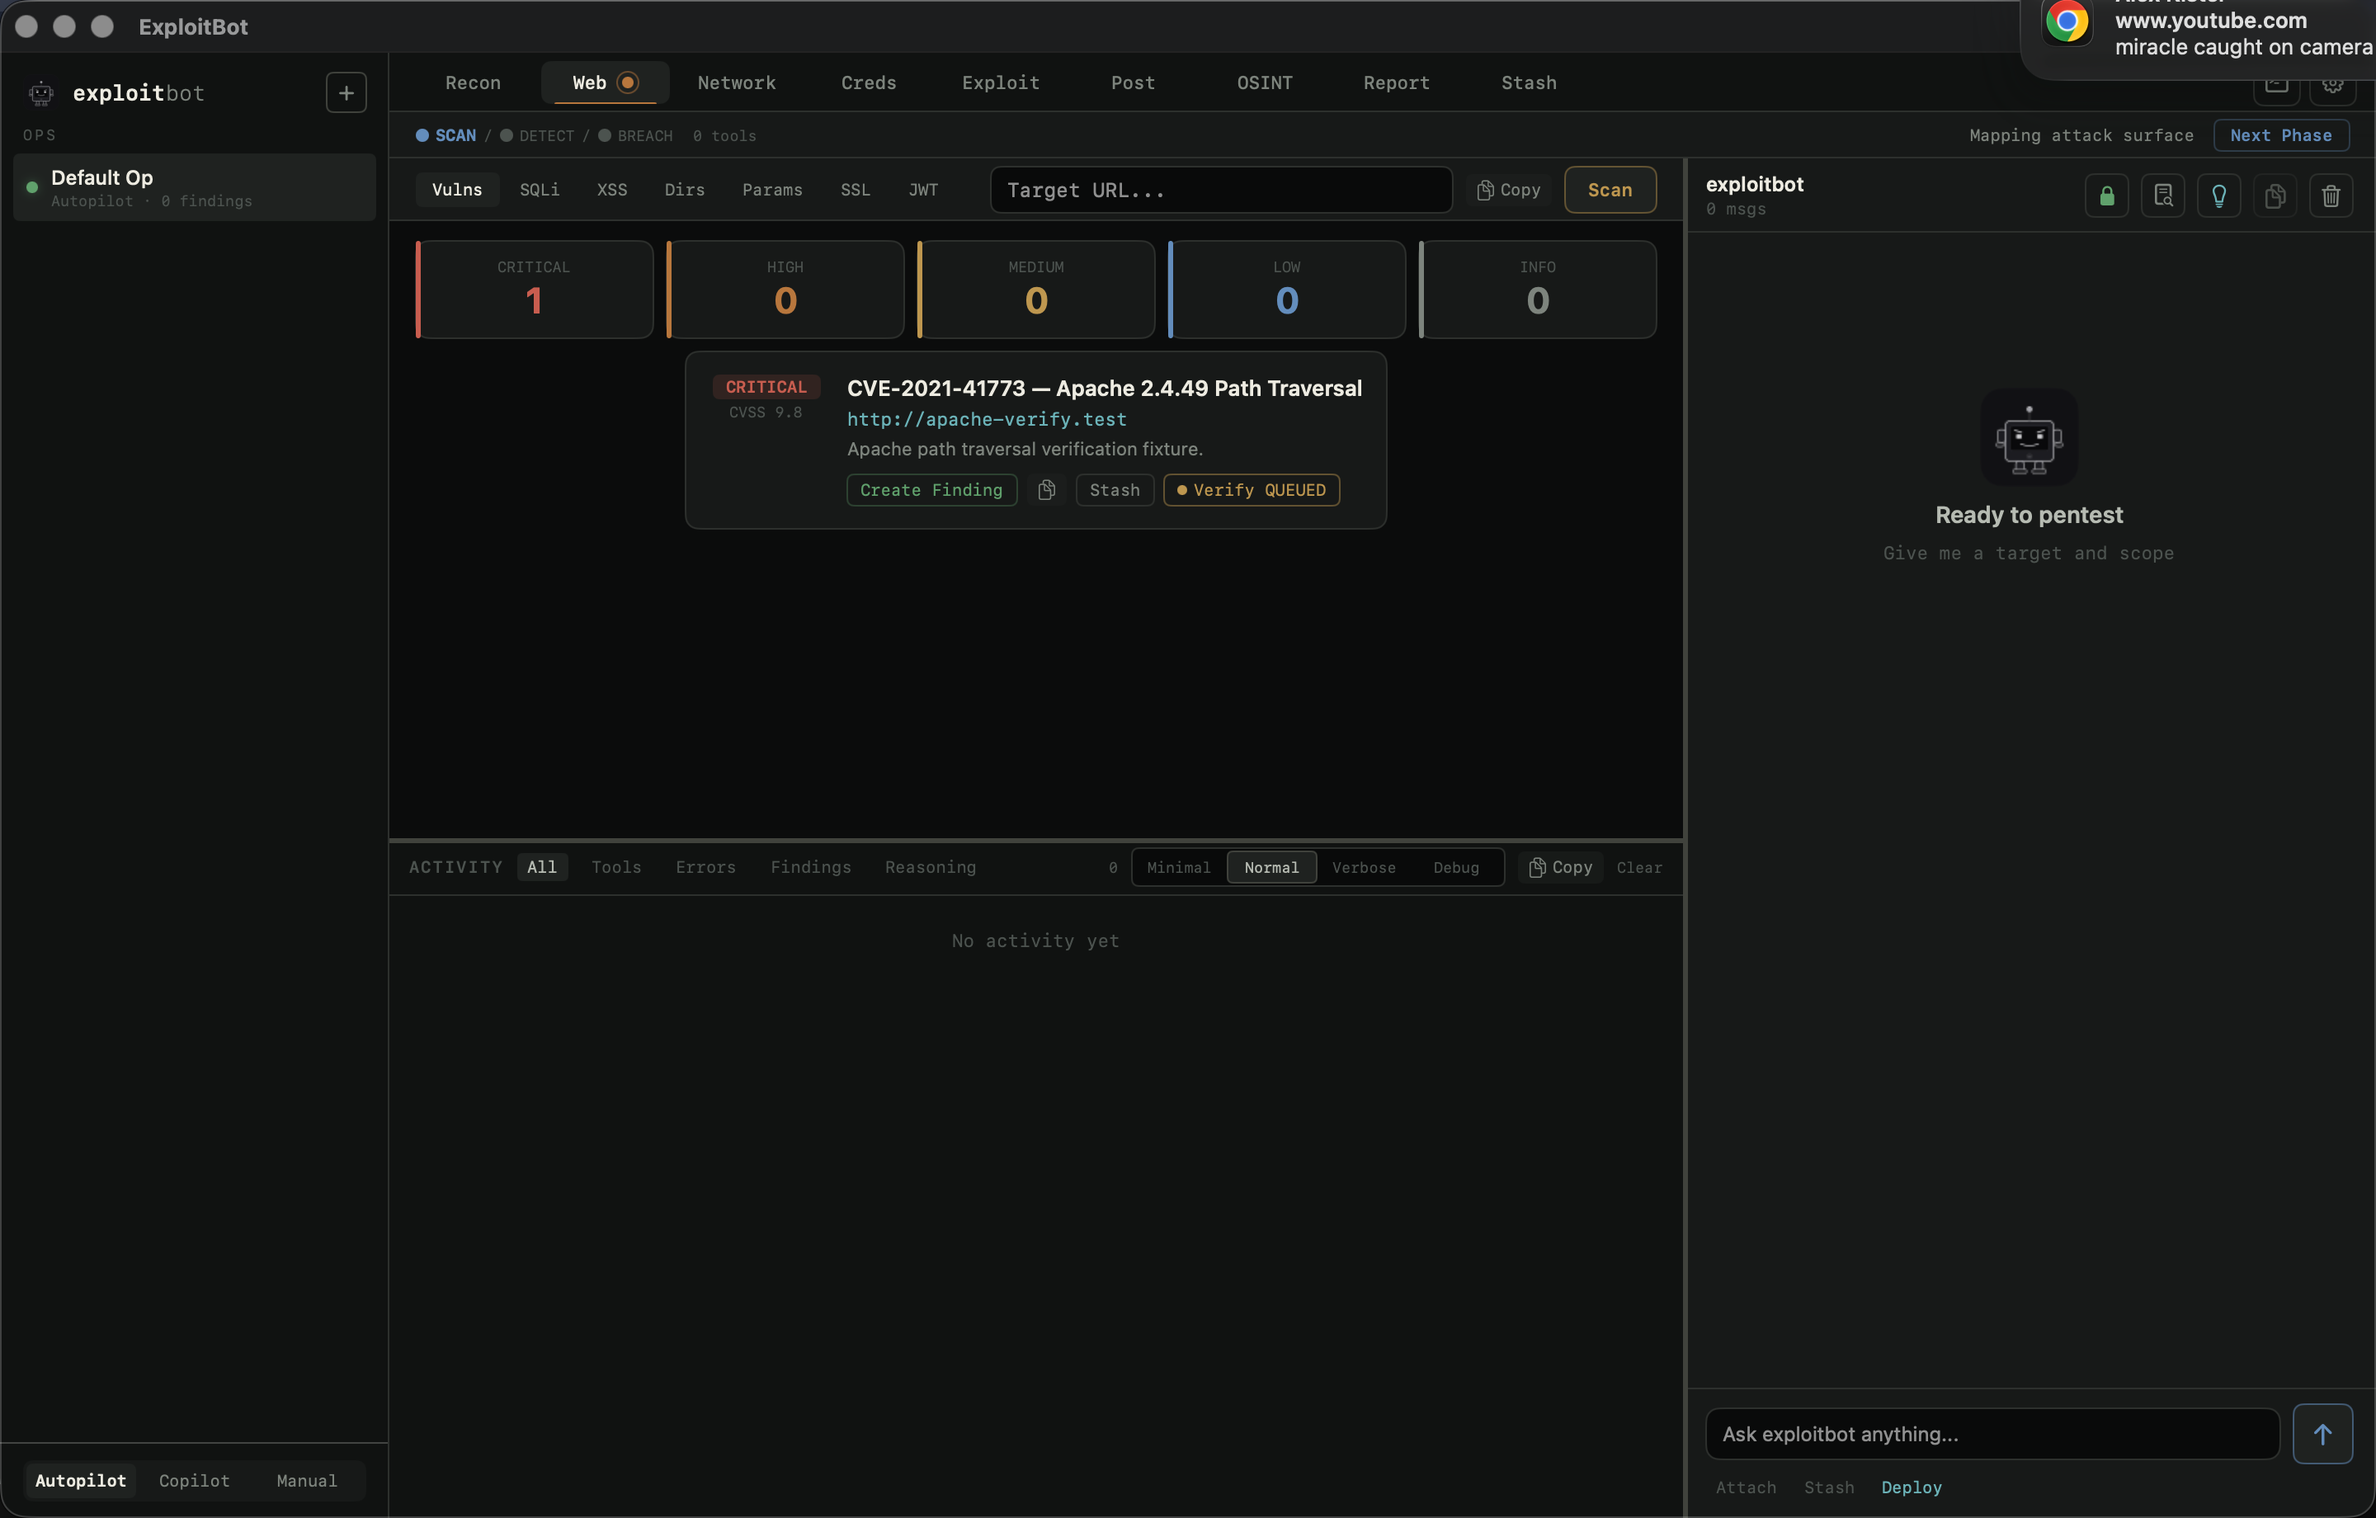
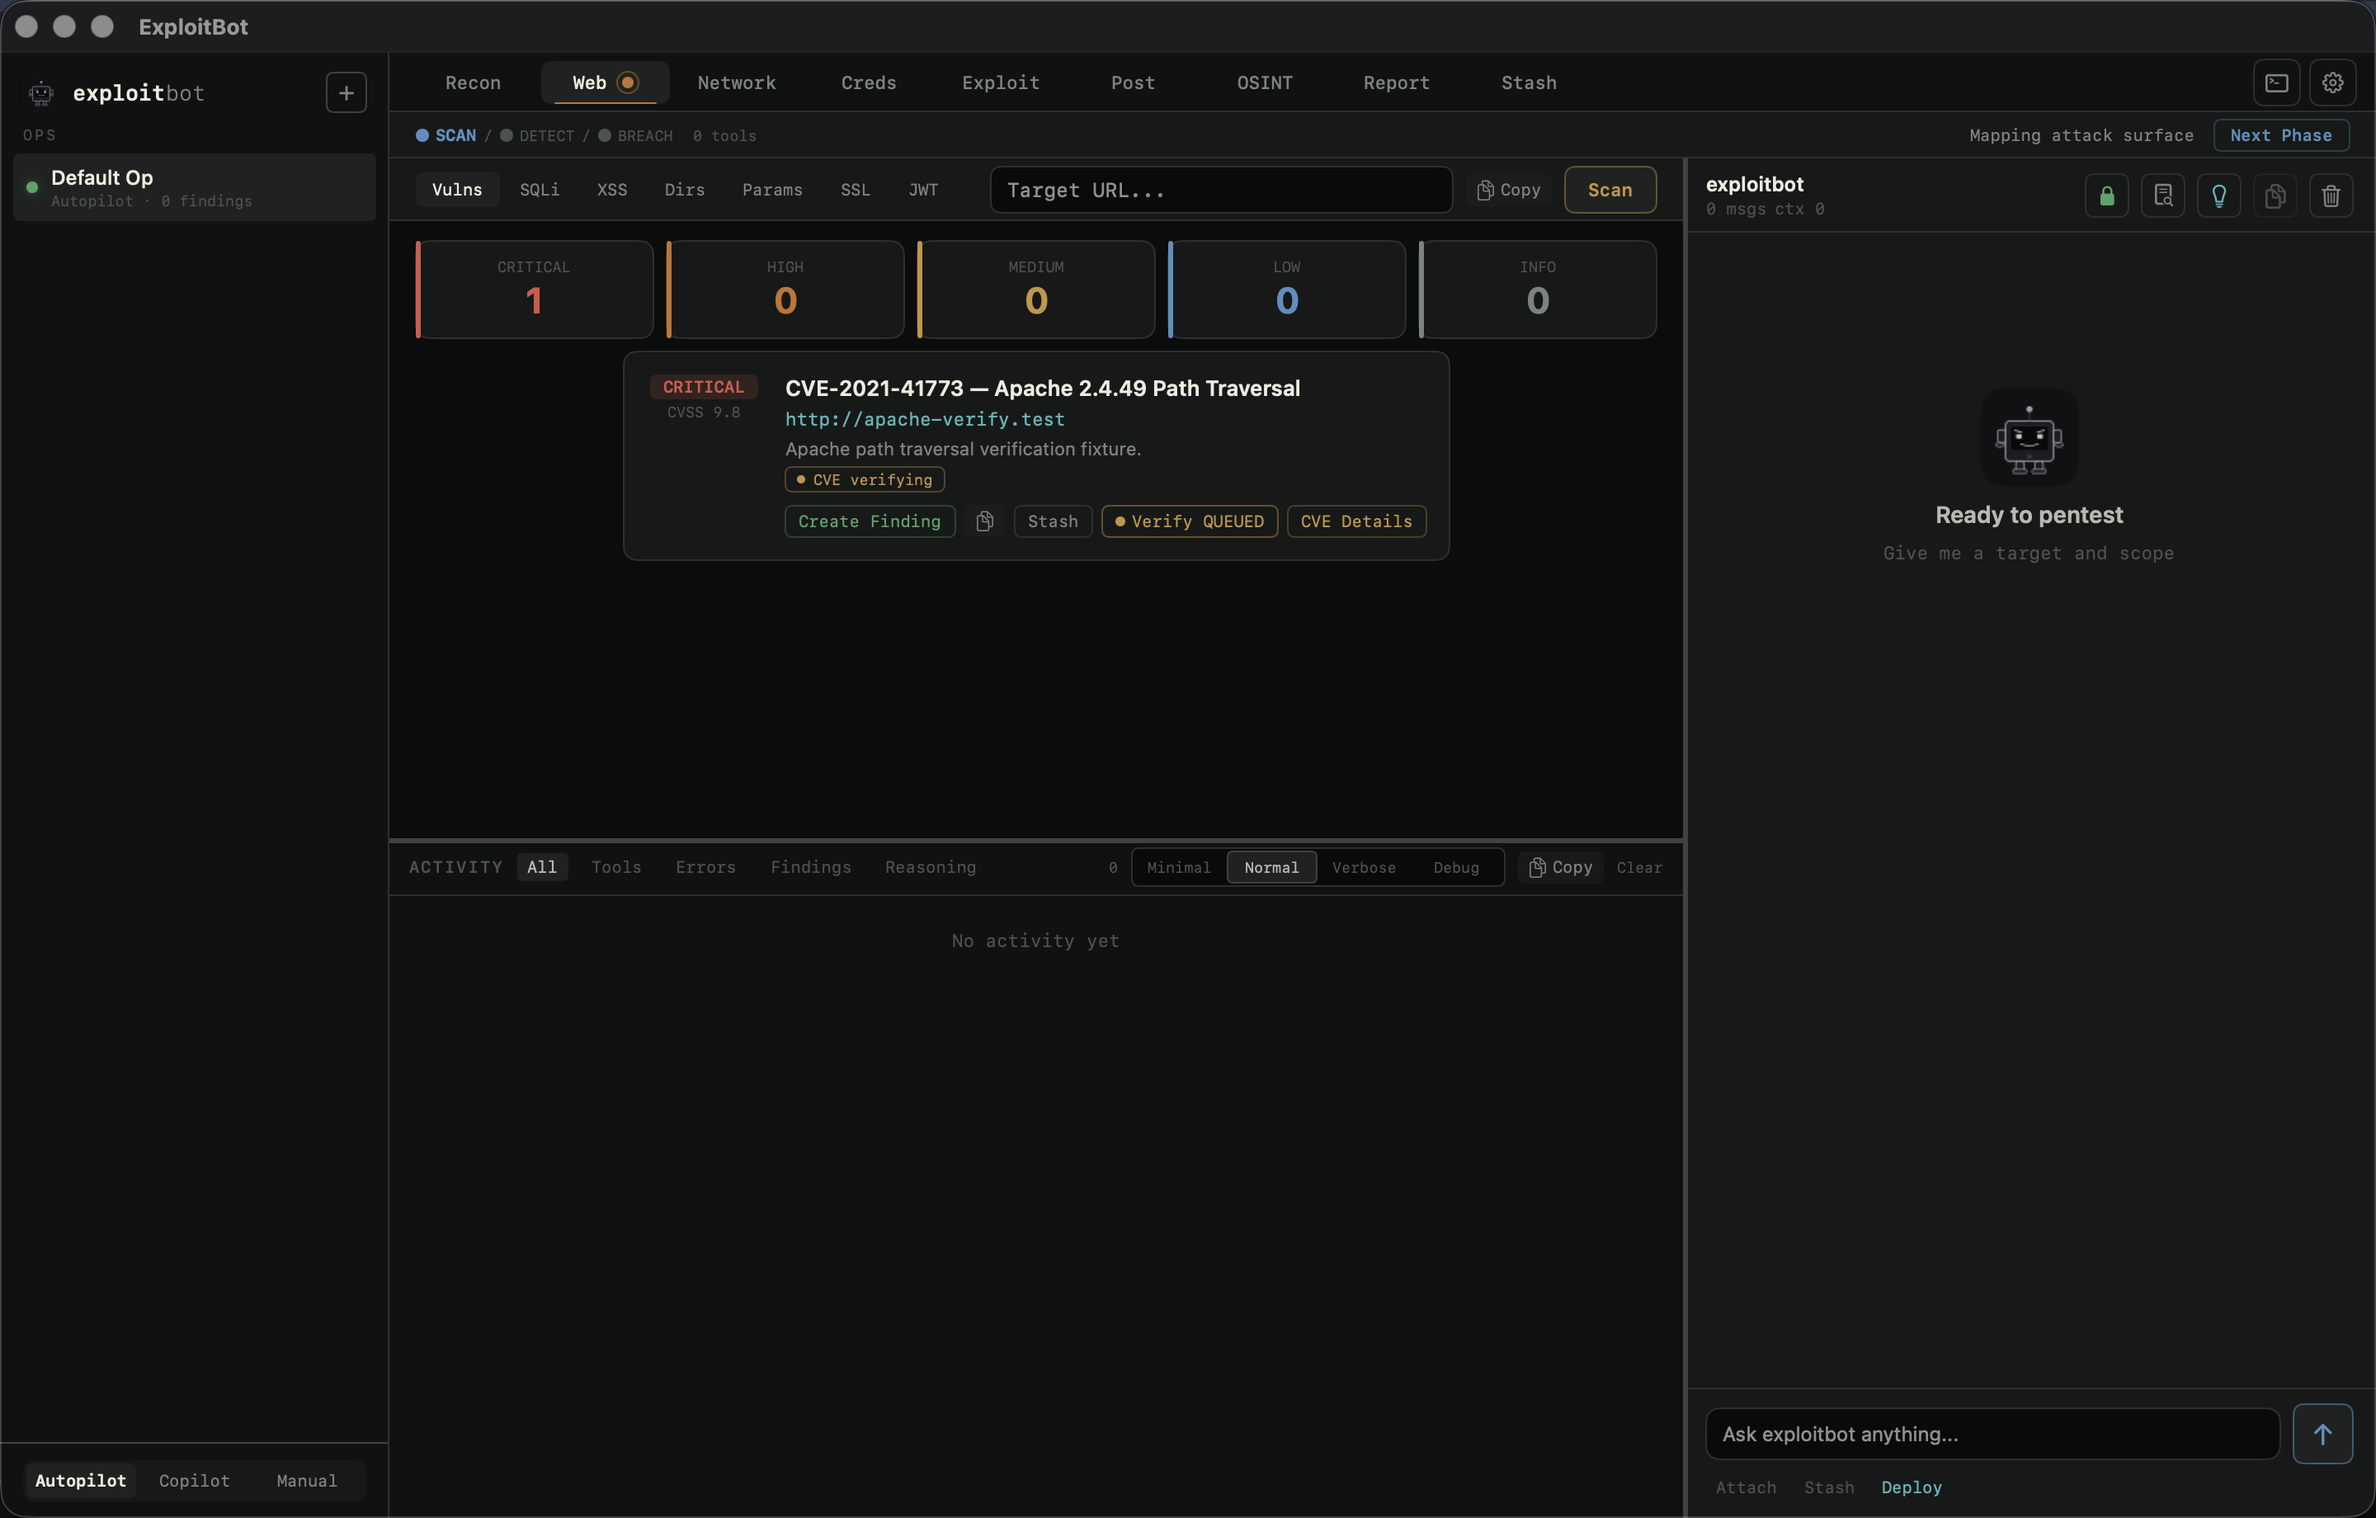
app: expose web cve row progress

Changed region(s): [[0.25, 0.2478, 0.5938, 0.3717], [0.8438, 0.0, 1.0, 0.062]]

diff --git a/ExploitBot/Sources/ExploitBot/Models/AppState.swift b/ExploitBot/Sources/ExploitBot/Models/AppState.swift
@@ -277,6 +277,24 @@ class TestServer {
                 tags: ["apache", "path-traversal"]
             )
             state.resultsStore.vulns = [vuln]
+            state.cveService.searchResults = [
+                CVE(
+                    id: "CVE-2021-41773",
+                    description: "Apache HTTP Server 2.4.49 path traversal and file disclosure vulnerability.",
+                    cvssScore: 9.8,
+                    cvssVector: nil,
+                    severity: "critical",
+                    vendor: "apache",
+                    product: "http_server",
+                    versionStart: nil,
+                    versionEnd: nil,
+                    publishedDate: "2021-10-05",
+                    exploitAvailable: "public",
+                    cisaKev: true,
+                    references: ["https://nvd.nist.gov/vuln/detail/CVE-2021-41773"],
+                    tags: "apache,path-traversal,kev"
+                )
+            ]
             let prompt = state.recordWebVerifyAction(vuln: vuln, sendToChat: false)
             return "{\"ok\":true,\"prompt\":\"\(Self.jsonEscape(prompt))\"}"
         case ("POST", "/qa/seed-recon-action-status"):
@@ -822,6 +840,7 @@ svc-backup:CorrectHorseBatteryStaple
                     "toolSchemas": state.chatService.lastToolSchemaNames,
                 ] as [String: Any],
                 "webAction": Self.webActionSnapshot(state.webAction),
+                "webCVERows": Self.webCVERowSnapshots(state),
                 "reconAction": Self.reconActionSnapshot(state.reconAction),
                 "networkAction": Self.networkActionSnapshot(state.networkAction),
                 "credsAction": Self.credsActionSnapshot(state.credsAction),
@@ -1097,6 +1116,26 @@ svc-backup:CorrectHorseBatteryStaple
             "cve": state.cve,
             "prompt": state.prompt,
         ]
+    }
+
+    private static func webCVERowSnapshots(_ state: AppState) -> [[String: Any]] {
+        state.resultsStore.vulns.compactMap { vuln in
+            guard let cve = vuln.cve, !cve.isEmpty else { return nil }
+            let hasDetails = state.cveService.searchResults.contains(where: { $0.id == cve })
+            let isVerifying = state.webAction.kind == "verify"
+                && state.webAction.target == vuln.target
+                && state.webAction.title == vuln.title
+            let status = isVerifying ? "verifying" : hasDetails ? "enriched" : "pending"
+            let label = isVerifying ? "CVE verifying" : hasDetails ? "CVE enriched" : "CVE pending"
+            return [
+                "cve": cve,
+                "title": vuln.title,
+                "target": vuln.target,
+                "status": status,
+                "progressLabel": label,
+                "hasDetails": hasDetails,
+            ]
+        }
     }
 
     private static func reconActionSnapshot(_ state: ReconActionState) -> [String: Any] {

diff --git a/ExploitBot/Sources/ExploitBot/Views/Tabs/WebTabView.swift b/ExploitBot/Sources/ExploitBot/Views/Tabs/WebTabView.swift
@@ -127,6 +127,7 @@ struct WebTabView: View {
                                 target: vuln.target, cvss: vuln.cvss, source: vuln.source,
                                 description: vuln.description,
                                 cveDetails: lookupCVEDetails(for: vuln.cve),
+                                cveStatus: cveStatusLabel(for: vuln),
                                 onCreateFinding: {
                                     onCreateFinding?(vuln.title, vuln.target, vuln.severity, vuln.description, vuln.cve ?? "")
                                 },
@@ -147,6 +148,17 @@ struct WebTabView: View {
             }
             .textSelection(.enabled)
         }
+    }
+
+    private func cveStatusLabel(for vuln: VulnEntry) -> String? {
+        guard let cve = vuln.cve, !cve.isEmpty else { return nil }
+        if webAction.kind == "verify" && webAction.target == vuln.target && webAction.title == vuln.title {
+            return "CVE verifying"
+        }
+        if lookupCVEDetails(for: cve) != nil {
+            return "CVE enriched"
+        }
+        return "CVE pending"
     }
 }
 
@@ -169,6 +181,7 @@ struct VulnCard: View {
     let severity: String; let title: String; let target: String
     let cvss: Double; let source: String; let description: String
     var cveDetails: CVE?
+    var cveStatus: String?
     var onCreateFinding: (() -> Void)?
     var onStash: (() -> Void)?
     var onSearchRelated: ((String) -> Void)?
@@ -202,6 +215,9 @@ struct VulnCard: View {
                     Text(target).font(.mono11).foregroundColor(.accentCyan)
                     if !description.isEmpty {
                         Text(description).font(.system(size: 11)).foregroundColor(.textMuted).lineLimit(2)
+                    }
+                    if let cveStatus {
+                        CVEProgressChip(label: cveStatus)
                     }
                     HStack(spacing: 6) {
                         Button(action: { onCreateFinding?() }) {
@@ -327,6 +343,28 @@ struct VulnCard: View {
             if let onStash { Button("Stash") { onStash() } }
             if let onCreateFinding { Button("Create Finding") { onCreateFinding() } }
         }
+    }
+}
+
+struct CVEProgressChip: View {
+    let label: String
+
+    private var color: Color {
+        label.contains("verifying") ? .accentAmber : label.contains("enriched") ? .accentGreen : .textDim
+    }
+
+    var body: some View {
+        HStack(spacing: 5) {
+            Circle()
+                .fill(color)
+                .frame(width: 5, height: 5)
+            Text(label)
+                .font(.mono9)
+                .foregroundColor(color)
+        }
+        .padding(.horizontal, 7)
+        .padding(.vertical, 2)
+        .background(RoundedRectangle(cornerRadius: 4).stroke(color.opacity(0.35)))
     }
 }
 

diff --git a/scripts/visual-web-verify-proof.py b/scripts/visual-web-verify-proof.py
@@ -87,12 +87,15 @@ def run() -> None:
         state = request("GET", "/state")
         if state.get("activeTab") != "web" or (state.get("webAction") or {}).get("status") != "queued":
             raise AssertionError(f"expected queued web verify state: {state}")
+        cve_rows = state.get("webCVERows") or []
+        if not cve_rows or cve_rows[0].get("progressLabel") != "CVE verifying":
+            raise AssertionError(f"expected row-level CVE verifying state: {state}")
         target = OUT_DIR / "web-verify-queued.png"
         capture(target)
         manifest = {
             "ok": True,
             "captures": [str(target.relative_to(ROOT))],
-            "note": "Cropped macOS capture of Web tab showing a vulnerability row with queued Verify status and web tab progress state.",
+            "note": "Cropped macOS capture of Web tab showing a vulnerability row with queued Verify status, row-level CVE verifying chip, and web tab progress state.",
         }
         (OUT_DIR / "manifest.json").write_text(json.dumps(manifest, indent=2) + "\n", encoding="utf-8")
         print("visual-web-verify proof passed")

diff --git a/scripts/web-verify-action-proof.py b/scripts/web-verify-action-proof.py
@@ -65,6 +65,18 @@ def run() -> None:
         web_activity = state.get("tabActivities", {}).get("web", {})
         if web_activity.get("status") != "running" or web_activity.get("lastTool") != "verify":
             raise AssertionError(f"web tab activity did not expose verify progress: {state}")
+        cve_rows = state.get("webCVERows") or []
+        if len(cve_rows) != 1:
+            raise AssertionError(f"expected one CVE row progress record: {state}")
+        cve_row = cve_rows[0]
+        if cve_row.get("cve") != "CVE-2021-41773":
+            raise AssertionError(f"CVE row id not tracked: {cve_row}")
+        if cve_row.get("status") != "verifying":
+            raise AssertionError(f"CVE row progress did not mirror active verification: {cve_row}")
+        if cve_row.get("hasDetails") is not True:
+            raise AssertionError(f"CVE row enrichment status missing: {cve_row}")
+        if cve_row.get("progressLabel") != "CVE verifying":
+            raise AssertionError(f"CVE row visible progress label missing: {cve_row}")
 
         print("web-verify-action proof passed")
     finally:

diff --git a/docs/checkpoints/2026-05-22-beta-refresh-checkpoint-106.md b/docs/checkpoints/2026-05-22-beta-refresh-checkpoint-106.md
@@ -1,0 +1,46 @@
+# Checkpoint 106: Web CVE Row Progress
+
+## Scope
+
+- Close the Web tab's remaining per-row CVE progress gap for vulnerability
+  cards.
+- Make CVE enrichment and active verification visible at both `/state` and UI
+  level.
+
+## Changes
+
+- `/state.webCVERows` now exposes one record per vulnerability with a CVE:
+  - `cve`;
+  - `title`;
+  - `target`;
+  - row `status` (`pending`, `enriched`, or `verifying`);
+  - `progressLabel`;
+  - `hasDetails`.
+- Web vulnerability cards now render a compact CVE progress chip:
+  - `CVE pending`;
+  - `CVE enriched`;
+  - `CVE verifying`.
+- The Web verify QA seed now includes an enriched CVE fixture so a queued verify
+  row proves both enrichment and active row progress.
+
+## Proof
+
+Commands:
+
+```bash
+python3 scripts/web-verify-action-proof.py
+python3 scripts/visual-web-verify-proof.py
+```
+
+Results:
+
+- `scripts/web-verify-action-proof.py` verifies the global Web verify action,
+  running Web tab activity, and row-level `CVE verifying` state.
+- `scripts/visual-web-verify-proof.py` refreshed
+  `docs/visual-proofs/checkpoint-96/web-verify-queued.png` and manifest text
+  showing queued Verify plus the row-level CVE progress chip.
+
+## Boundary
+
+This covers Web vulnerability-card CVE row status. It does not replace real CVE
+database import progress proof or real-model exploitation/verification behavior.

diff --git a/docs/app-system-review-2026-05-21.md b/docs/app-system-review-2026-05-21.md
@@ -343,6 +343,8 @@ Automated no-model gates:
     long-running Sherlock-style tool is stopped;
   - proves tool callbacks update per-tab activity state that the tab bar can
     render as running/done/failed/canceled indicators;
+  - proves Web CVE rows expose per-row progress/enrichment status through
+    `/state.webCVERows` and the visible card chip;
   - proves model-issued `search_context` returns targeted catalogue facts;
   - proves automatic context injection stays at 4 snippets or fewer and tells
     the model to use `search_context` for more targeted retrieval;
@@ -385,6 +387,9 @@ Mock-model gates:
 - Per-tab tool activity state. Covered by `scripts/live-turn-harness.py` for
   the Web/CVE path; tab-bar visual screenshot coverage is now captured by
   `scripts/visual-tab-proof.py`.
+- Web CVE row progress. Covered by `scripts/web-verify-action-proof.py` and
+  `scripts/visual-web-verify-proof.py`, which verify row-level CVE id,
+  enrichment, active `CVE verifying` progress, and visible queued card state.
 - Nested lifecycle strip visual state. Covered by
   `scripts/visual-tab-proof.py` with cropped captures under
   `docs/visual-proofs/checkpoint-70`.

diff --git a/docs/engine-migration-prep-2026-05-21.md b/docs/engine-migration-prep-2026-05-21.md
@@ -582,6 +582,12 @@ Do not enable MTP from metadata alone. Runtime activation must require config su
   cache-ready state, asserts `/state.contextWindow` generation/session/cache
   markers, and refreshes
   `docs/visual-proofs/checkpoint-71/chat-tool-states.png`.
+- Checkpoint 106: Closed the Web CVE per-row progress gap. `/state.webCVERows`
+  now reports per-CVE row `pending`, `enriched`, and active `verifying` status,
+  Web vulnerability cards render a compact CVE progress chip, and
+  `scripts/web-verify-action-proof.py` plus `scripts/visual-web-verify-proof.py`
+  prove the seeded Apache CVE row is enriched and visibly `CVE verifying` while
+  the Verify action is queued.
 
 ## Known Risk Areas
 

diff --git a/docs/app-flow-inventory-2026-05-21.md b/docs/app-flow-inventory-2026-05-21.md
@@ -153,8 +153,10 @@ Web:
   Web tab activity. `scripts/web-verify-action-proof.py` verifies the target,
   finding title, prompt, and running tab badge; the visible queued button state
   is captured under `docs/visual-proofs/checkpoint-96`.
-- CVE search/lookup still uses direct service state; broader per-row CVE
-  progress remains part of the remaining tool-progress polish.
+- CVE-bearing rows now expose per-row status through `/state.webCVERows` and a
+  visible chip on each vulnerability card. The same proof verifies `pending`,
+  `enriched`, and active `CVE verifying` row semantics for the seeded Web
+  verify path; the visual capture is under `docs/visual-proofs/checkpoint-96`.
 
 Network:
 
